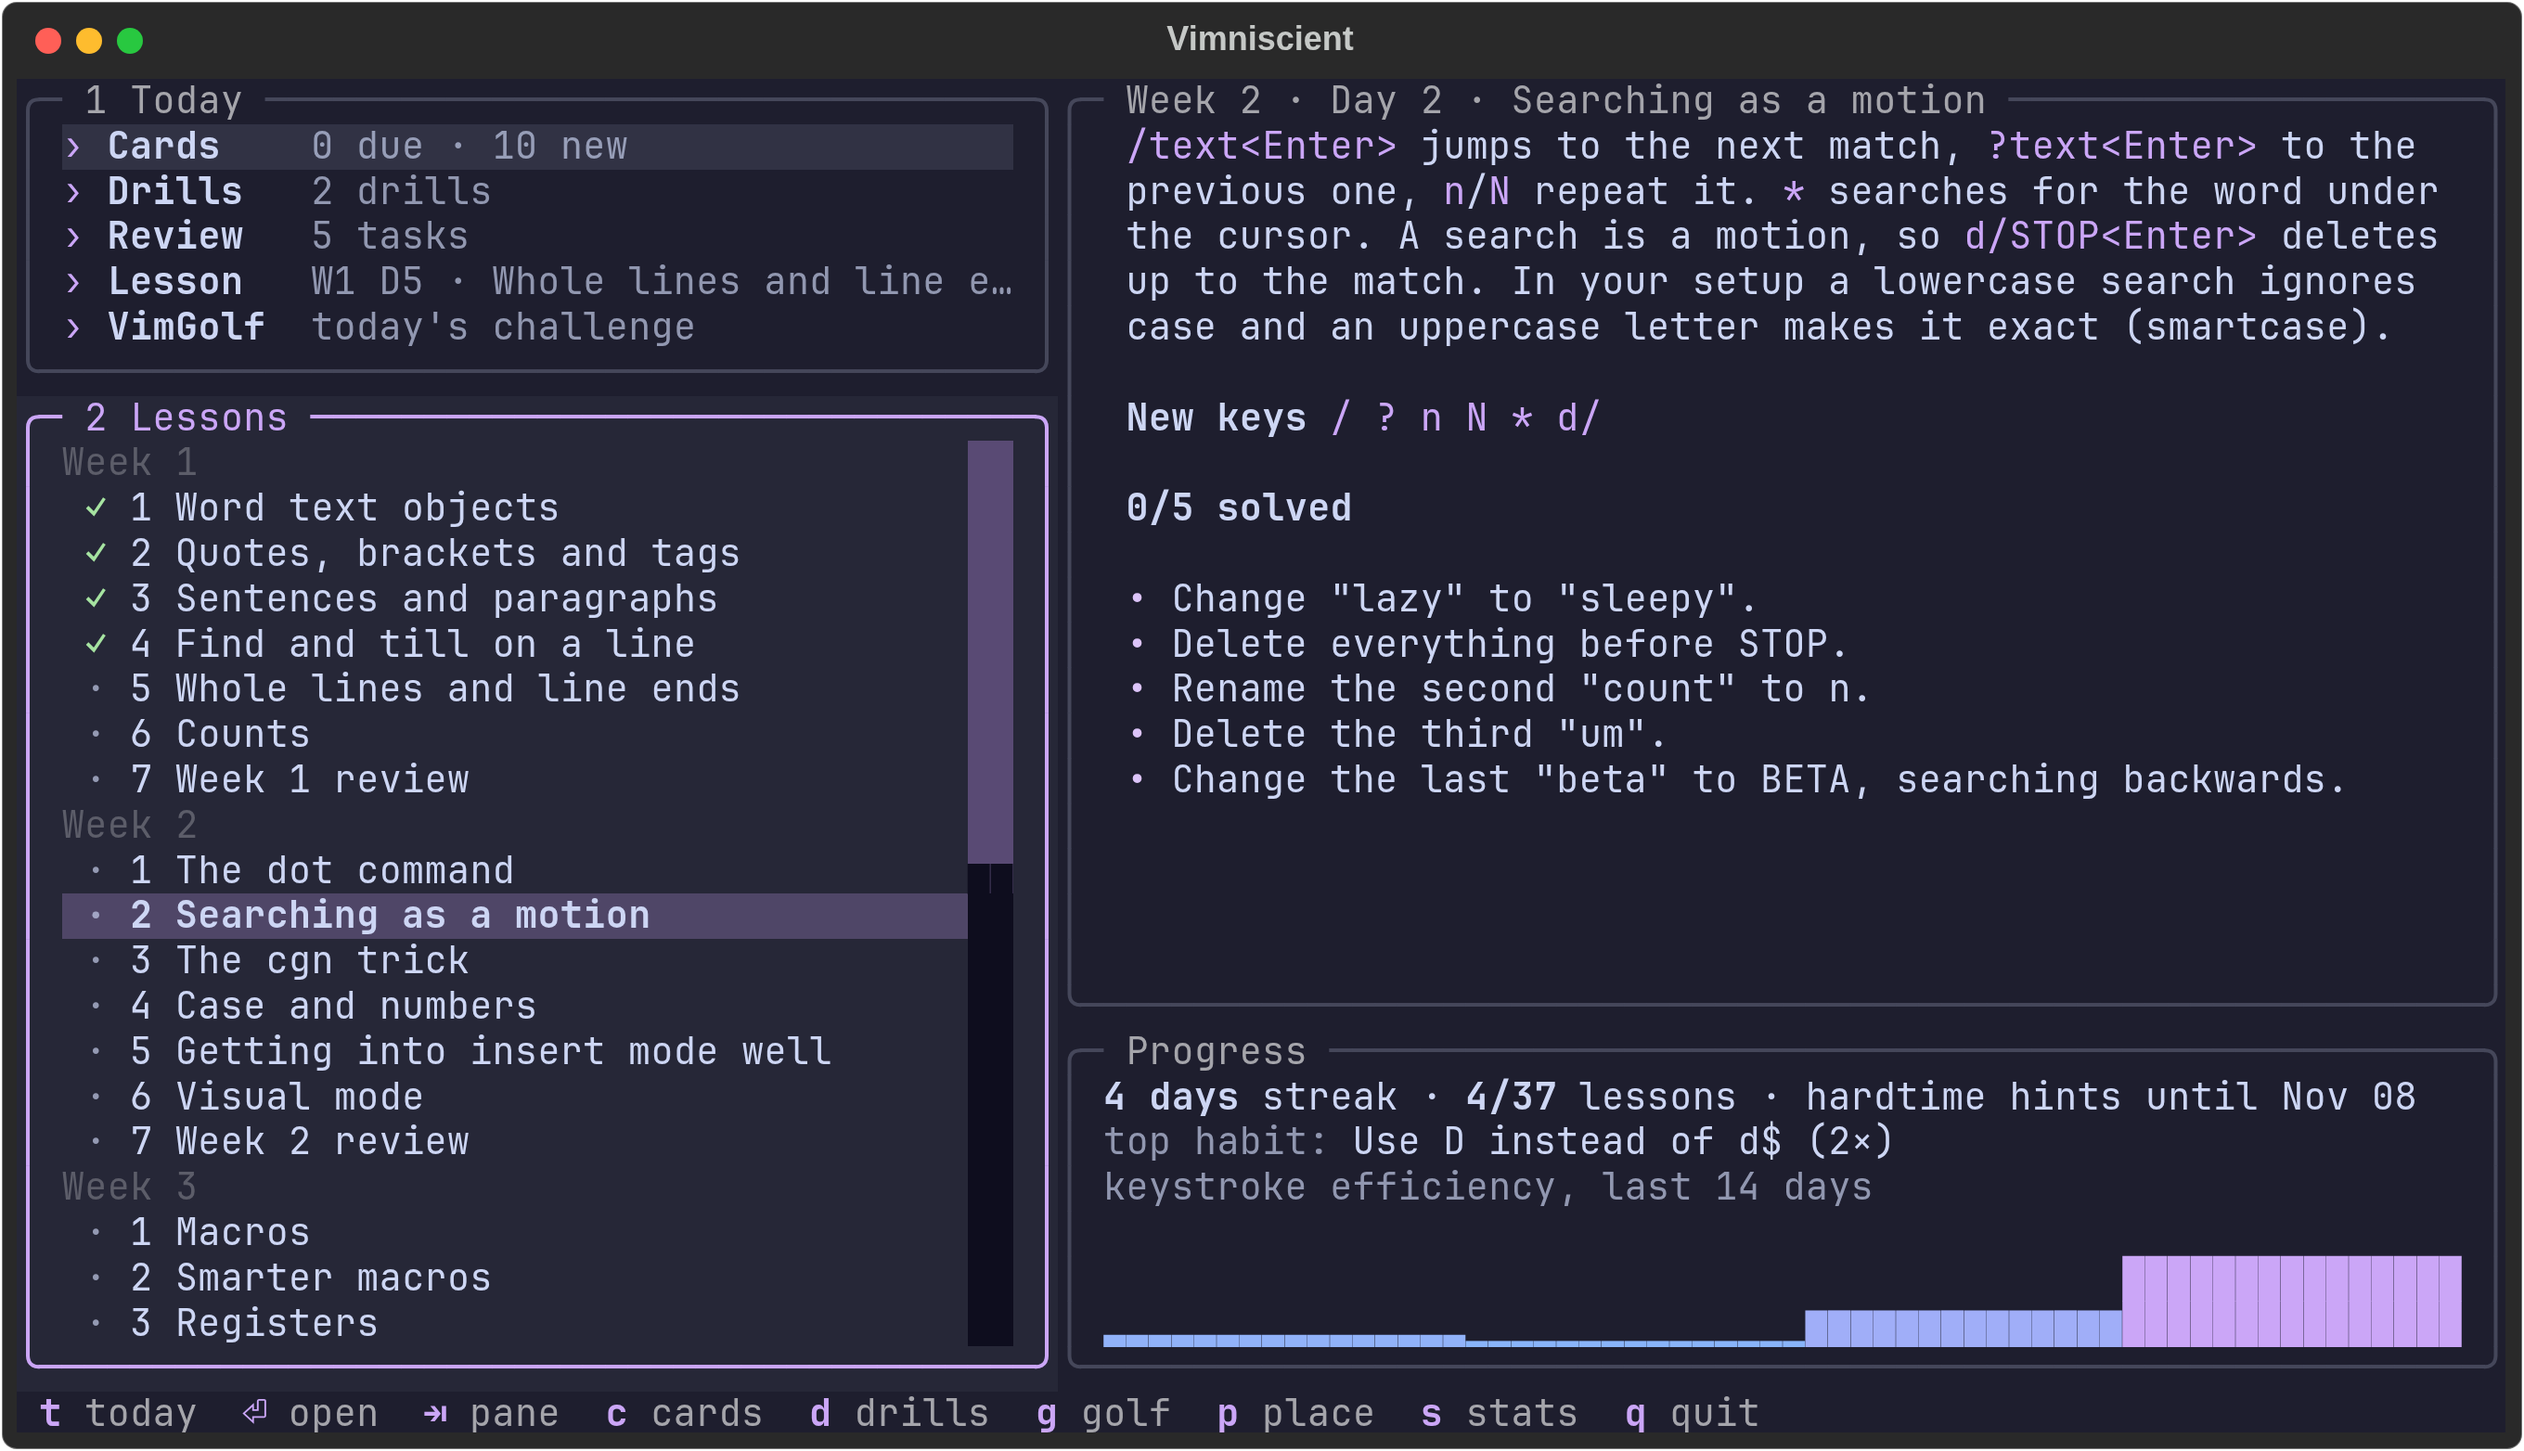
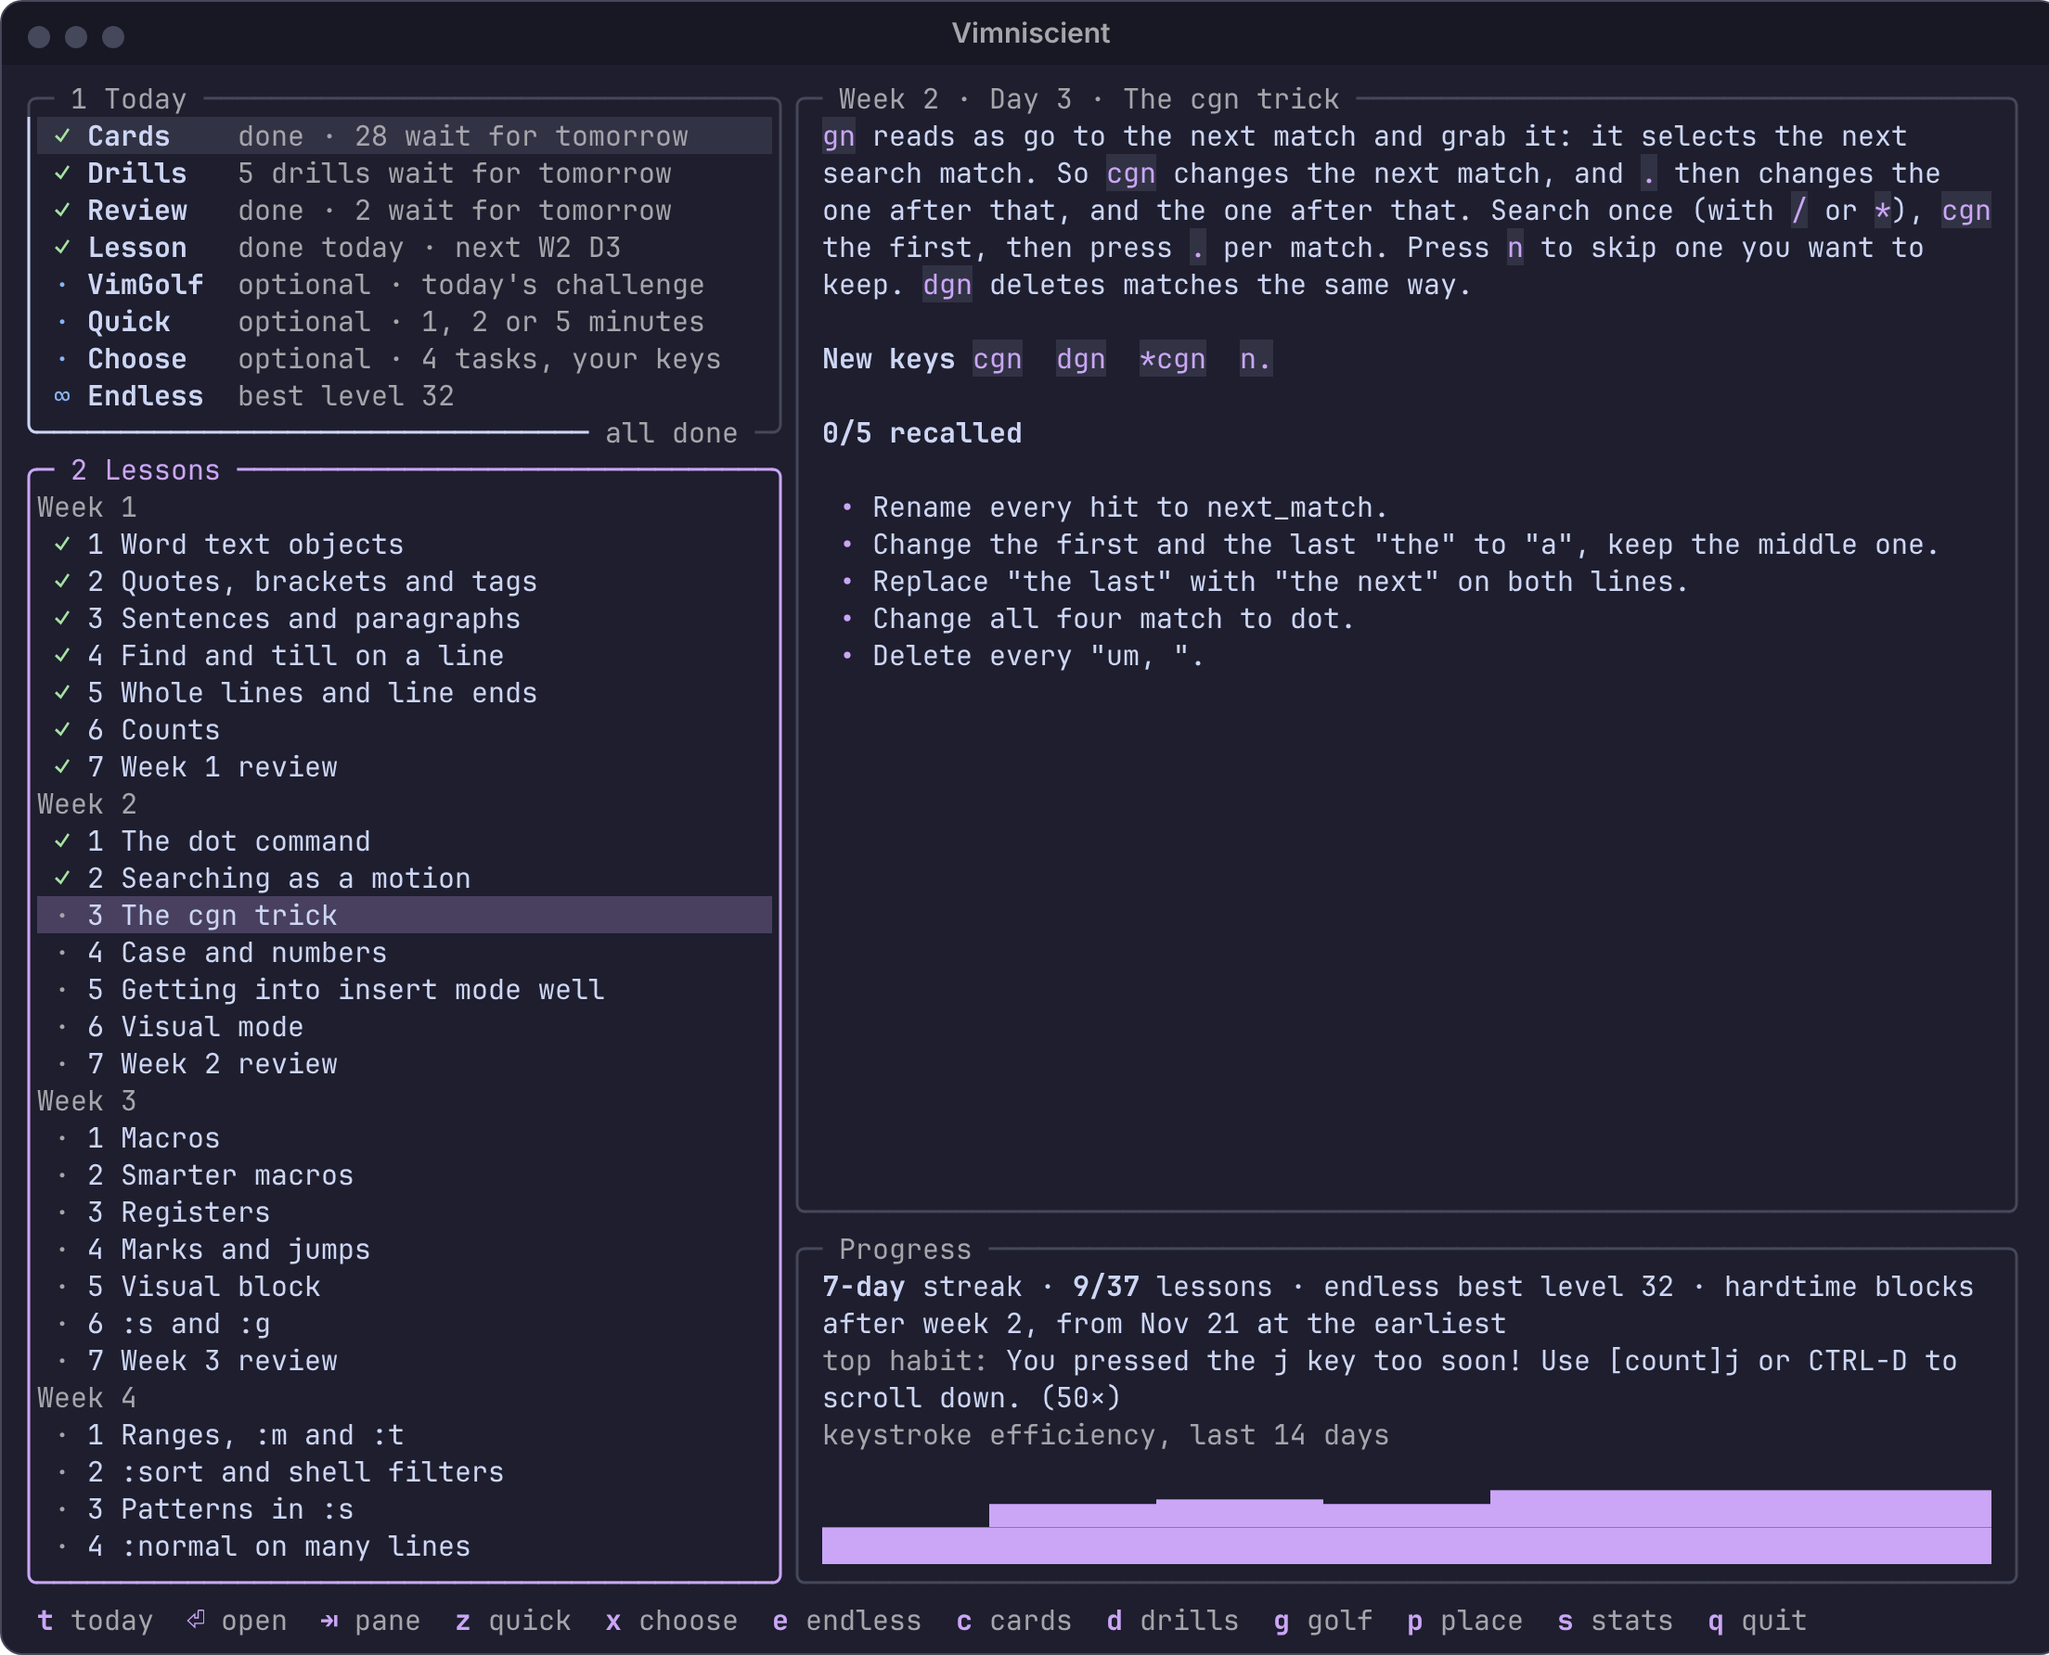
Version 1.0.1: highlights span the row, the graph fills its pane, new screenshots
The command line draws lessons in your theme too.

Claude-Session: https://claude.ai/code/session_015jWf7hXHuoKHLVTD1APsmW

Changed region(s): [[0.0, 0.0, 1.0, 1.0], [0.7188, 0.3069, 0.9375, 0.3683], [0.9688, 0.0, 1.0, 0.0307]]

diff --git a/src/ui/main_screen.rs b/src/ui/main_screen.rs
@@ -17,6 +17,20 @@ use ratatui::text::{Line, Span};
 use ratatui::widgets::{Paragraph, Sparkline, Wrap};
 use std::cell::Cell;
 
+/// The selected row of a pane, from border to border.
+fn highlight(frame: &mut Frame, area: Rect, row: usize, focused: bool, t: &Theme) {
+    let rect = Rect::new(area.x + 1, area.y + 1 + row as u16, area.width.saturating_sub(2), 1);
+    frame.buffer_mut().set_style(rect.intersection(area), Style::new().bg(if focused { t.selected } else { t.surface }));
+}
+
+/// `data` stretched over `width` columns.
+fn stretched(data: &[u64], width: u16) -> Vec<u64> {
+    if data.is_empty() {
+        return Vec::new();
+    }
+    (0..width as usize).map(|i| data[i * data.len() / width as usize]).collect()
+}
+
 struct Row {
     id: Option<String>, // None for a week heading
     line: Line<'static>,
@@ -219,15 +233,15 @@ impl MainScreen {
                 (_, Some(true)) => ("›", t.primary),
                 _ => ("✓", t.success),
             };
-            let line = Line::from(vec![
+            Line::from(vec![
                 Span::raw(" "),
                 Span::styled(mark, Style::new().fg(color)),
                 Span::styled(format!(" {:<8} ", step.label), Style::new().add_modifier(Modifier::BOLD)),
                 Span::styled(step.detail.clone(), Style::new().fg(t.muted)),
-            ]);
-            if i == self.plan_at { line.style(Style::new().bg(if focused { t.selected } else { t.surface })) } else { line }
+            ])
         }).collect();
         frame.render_widget(Paragraph::new(lines).block(block), area);
+        highlight(frame, area, self.plan_at, focused, t);
     }
 
     fn draw_lessons(&self, frame: &mut Frame, area: Rect, t: &Theme) {
@@ -240,11 +254,9 @@ impl MainScreen {
             offset = self.row_at + 1 - height.max(1);
         }
         self.offset.set(offset);
-        let lines: Vec<Line> = self.rows.iter().enumerate().skip(offset).take(height).map(|(i, row)| {
-            let line = row.line.clone();
-            if i == self.row_at { line.style(Style::new().bg(if focused { t.selected } else { t.surface })) } else { line }
-        }).collect();
+        let lines: Vec<Line> = self.rows.iter().skip(offset).take(height).map(|row| row.line.clone()).collect();
         frame.render_widget(Paragraph::new(lines).block(widgets::pane("2 Lessons", focused, t)), area);
+        highlight(frame, area, self.row_at - offset, focused, t);
     }
 
     pub fn draw(&self, frame: &mut Frame, app: &App) {
@@ -267,7 +279,7 @@ impl MainScreen {
         frame.render_widget(block, progress);
         let [words, _, spark] = Layout::vertical([Constraint::Min(0), Constraint::Length(u16::from(spark_rows > 0)), Constraint::Length(spark_rows.min(2))]).areas(inside);
         frame.render_widget(Paragraph::new(self.progress.clone()).wrap(Wrap { trim: false }), words);
-        frame.render_widget(Sparkline::default().data(&self.spark).bar_set(bar::NINE_LEVELS).style(Style::new().fg(t.primary)), spark);
+        frame.render_widget(Sparkline::default().data(&stretched(&self.spark, spark.width)).bar_set(bar::NINE_LEVELS).style(Style::new().fg(t.primary)), spark);
         let keys = [("t", "today"), ("⏎", "open"), ("⇥", "pane"), ("z", "quick"), ("x", "choose"), ("e", "endless"), ("c", "cards"), ("d", "drills"), ("g", "golf"), ("p", "place"), ("s", "stats"), ("q", "quit")];
         frame.render_widget(Paragraph::new(widgets::keybar(&keys, t)), bar_area);
     }

diff --git a/src/ui/quick.rs b/src/ui/quick.rs
@@ -63,8 +63,12 @@ impl QuickScreen {
         let t = &app.theme;
         let [space, bar] = Layout::vertical([Constraint::Min(0), Constraint::Length(1)]).areas(frame.area());
         let lines: Vec<Line> = self.rows.iter().enumerate().map(|(i, (_, title, what))| {
-            let line = Line::from(vec![Span::raw(format!(" {} ", widgets::fit(title, 14))), Span::styled(what.clone(), Style::new().fg(t.muted))]);
-            if i == self.at { line.style(Style::new().bg(t.selected)) } else { line }
+            let line = format!(" {} {what}", widgets::fit(title, 14));
+            let filled = widgets::fit(&line, 70); // the highlight runs across the column
+            let first = filled.chars().take(16).collect::<String>();
+            let rest = filled.chars().skip(16).collect::<String>();
+            let row = Line::from(vec![Span::raw(first), Span::styled(rest, Style::new().fg(t.muted))]);
+            if i == self.at { row.style(Style::new().bg(t.selected)) } else { row }
         }).collect();
         let area = widgets::centred(space, 76, lines.len() as u16 + 4);
         frame.render_widget(Paragraph::new(lines).block(widgets::column("Quick practice", t)), area);

diff --git a/src/ui/mod.rs b/src/ui/mod.rs
@@ -21,6 +21,13 @@ use app::App;
 use crossterm::event::{self, Event, KeyEventKind};
 use std::time::Duration;
 
+/// Lessons draw in the Omarchy theme's colours, from the menu or the command line.
+pub fn use_theme() {
+    if let Ok(mut colors) = crate::system::nvim::COLORS.lock() {
+        *colors = Some(theme::lesson_colors(&theme::omarchy_theme()));
+    }
+}
+
 /// What arrives from other threads.
 pub enum Message {
     Hyprland(String),
@@ -29,6 +36,7 @@ pub enum Message {
 
 pub fn run() {
     let mut app = App::new();
+    use_theme();
     let mut terminal = ratatui::init();
     mouse_wheel(false); // keyboard only: nothing here reacts to clicks or the wheel
     while !app.quit {

diff --git a/tests/ui.rs b/tests/ui.rs
@@ -50,6 +50,12 @@ fn every_screen() {
         assert!(shown.contains(text), "{text} not on the main screen:\n{shown}");
     }
 
+    // the highlight runs the whole width of its pane
+    let mut terminal = Terminal::new(TestBackend::new(120, 40)).unwrap();
+    terminal.draw(|frame| app.draw(frame)).unwrap();
+    let buffer = terminal.backend().buffer().clone();
+    assert_eq!(buffer[(2, 1)].bg, buffer[(40, 1)].bg, "the Today highlight stops short");
+
     // holding j keeps moving; the detail follows at once
     press(&mut app, "2");
     let before = screen(&app);

diff --git a/src/ui/app.rs b/src/ui/app.rs
@@ -89,9 +89,6 @@ impl App {
             std::process::exit(1);
         });
         let theme = theme::omarchy_theme();
-        if let Ok(mut colors) = nvim::COLORS.lock() {
-            *colors = Some(theme::lesson_colors(&theme));
-        }
         let mut app = App {
             theme, lessons, progress, decks, drills: load_drills(), screens: Vec::new(), pending: None, quit: false, messages: channel(),
             toast: None, queue: VecDeque::new(), routine: false, placement: None,

diff --git a/src/main.rs b/src/main.rs
@@ -73,6 +73,7 @@ fn progress() -> Progress {
 fn main() {
     let args = Args::parse();
     let lessons = &*LESSONS;
+    vimniscient::ui::use_theme();
     match args.command {
         None => vimniscient::ui::run(),
         Some(Action::List) => {
